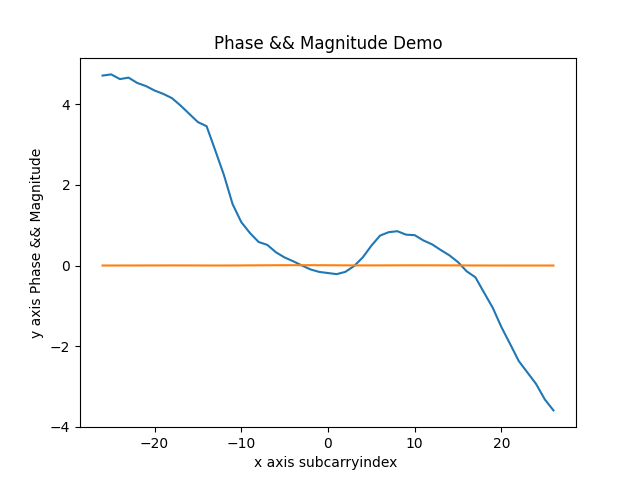
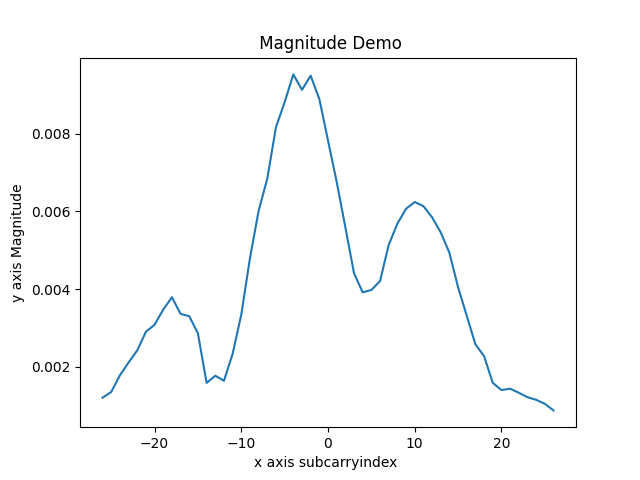
release

diff --git a/main.py b/main.py
@@ -7,12 +7,10 @@ i = 0  # stands for the first frame of csi frames
 frames = Picoscenes("rx_by_usrpN210.csi")
 numTones = frames.raw[i].get("CSI").get("numTones")
 SubcarrierIndex = np.array(frames.raw[i].get("CSI").get("SubcarrierIndex"))
-Phase = np.array(frames.raw[i].get("CSI").get("Phase"))[:numTones]
 Mag = np.array(frames.raw[i].get("CSI").get("Mag"))[:numTones]
 
-plt.title("Phase && Magnitude Demo")
+plt.title(" Magnitude Demo")
 plt.xlabel("x axis subcarryindex ")
-plt.ylabel("y axis Phase && Magnitude")
-plt.plot(SubcarrierIndex, Phase)
+plt.ylabel("y axis Magnitude")
 plt.plot(SubcarrierIndex, Mag)
 plt.show()

diff --git a/docs/PicoToolBoxdoc.md b/docs/PicoToolBoxdoc.md
@@ -208,7 +208,7 @@ Fragment = frames.raw[i].get("StandardHeader").get("Fragment")
 i = 0  # stands for the first frame of csi frames
 
 frames = Picoscenes("rx_by_usrpN210.csi")
-numTones = frames.raw[i].get("RxSBasic").get("timestamp")
+timestamp = frames.raw[i].get("RxSBasic").get("timestamp")
 
 ```
 
@@ -345,10 +345,10 @@ In order to **not** trouble you ,i will just list the meaningful Information of 
 ```python	
 i = 0  # stands for the first frame of csi frames
 
-frames = Picoscenes("rx_by_usrpN210.csi")
-if frames.raw[i].get("Txtrainfo").get("has_txpower"):
-	txpower = frames.raw[i].get("Txtrainfo").get("txpower")
-    # make sure the frame has_xxx attribute then assign the variable
+frames = Picoscenes("rx_by_qca9300.csi")
+txpower = frames.raw[i].get("TxExtraInfo").get("txpower")
+print(txpower)
+
 ```
 
 
@@ -381,8 +381,8 @@ if frames.raw[i].get("Txtrainfo").get("has_txpower"):
 ```python
 i = 0
 frames = Picoscenes("rx_by_usrpN210.csi")
-frame = frames.raw[i] # get the first frame numtones
-if frame_value.pilotCSISegment.has_value():
+frame = frames.raw[i]  
+if frame.get("PilotCSI"):
     numTones = frame.get("PilotCSI").get("numTones")
 ```
 
@@ -418,22 +418,45 @@ if frame_value.pilotCSISegment.has_value():
 ```python
 i = 0
 frames = Picoscenes("rx_by_usrpN210.csi")
-frame = frames.raw[i] # get the first frame numtones
-if frame_value.pilotCSISegment.has_value():
-    numTones =frame.get("LegacyCSI").get("numTones")
+frame = frames.raw[i]  
+if frame.get("LegacyCSI"):
+    numTones = frame.get("LegacyCSI").get("numTones")
 ```
 
 
 
 ### BasebandSignals(Optional[np.asarray])
 
+```python
+i = 0
+frames = Picoscenes("rx_by_usrpN210.csi")
+frame = frames.raw[i]  
+BasebandSignals = frame.get("BasebandSignals")
+```
+
 
 
 ### PreEQSymbols(Optional[np.asarray])
 
+```python
+i = 0
+frames = Picoscenes("rx_by_usrpN210.csi")
+frame = frames.raw[i]  
+BasebandSignals = frame.get("PreEQSymbols")
+```
+
 
 
 ### MPDU(uint8_t)
+
+```python
+i = 0
+frames = Picoscenes("rx_by_usrpN210.csi")
+frame = frames.raw[i]  # get the first frame numtones
+MPDU = frame.get("MPDU")
+```
+
+**If you have something dont know , you can check picoscenes.pyx or contact with me. **
 
 
 

diff --git a/README.md b/README.md
@@ -23,14 +23,15 @@ git clone https://github.com/Herrtian/PicoscenesToolbox.git --recursive
 2.  install python and dependency
 
 ```bash
-sudo apt-get install python3
-sudo apt-get install pip3
+sudo apt update
+sudo apt install python3
+sudo apt install python3-pip
 ```
 
-* If you are **Chinese** user, you can set pip source to accelerate download speed.
+* If you are **Chinese** user, you can change pip source to accelerate download speed.
 
 ```bash
-pip3 config set global.index-url https：//pypi.tuna.tsinghua.edu.cn/simple/
+pip config set global.index-url https://mirrors.aliyun.com/pypi/simple/
 ```
 
 * install dependency
@@ -63,20 +64,19 @@ i = 0  # stands for the first frame of csi frames
 frames = Picoscenes("rx_by_usrpN210.csi")
 numTones = frames.raw[i].get("CSI").get("numTones")
 SubcarrierIndex = np.array(frames.raw[i].get("CSI").get("SubcarrierIndex"))
-Phase = np.array(frames.raw[i].get("CSI").get("Phase"))[:numTones]
 Mag = np.array(frames.raw[i].get("CSI").get("Mag"))[:numTones]
 
-plt.title("Phase && Magnitude Demo")
+plt.title(" Magnitude Demo")
 plt.xlabel("x axis subcarryindex ")
-plt.ylabel("y axis Phase && Magnitude")
-plt.plot(SubcarrierIndex, Phase)
+plt.ylabel("y axis Magnitude")
 plt.plot(SubcarrierIndex, Mag)
 plt.show()
+
 ```
 
   **main.py** is included in the working dir.
 
-  This programm shows the first frame of **rx_by_usrpN210.csi** ,and draws the picture whose x-ray stands for **SubcarrierIndex** and y-ray stands for **Phase** && **Magnitude**.
+  This programm shows the first frame of **rx_by_usrpN210.csi** ,and draws the picture whose x-ray stands for **SubcarrierIndex** and y-ray stands for **Magnitude**.
 
 ### run the file
 
